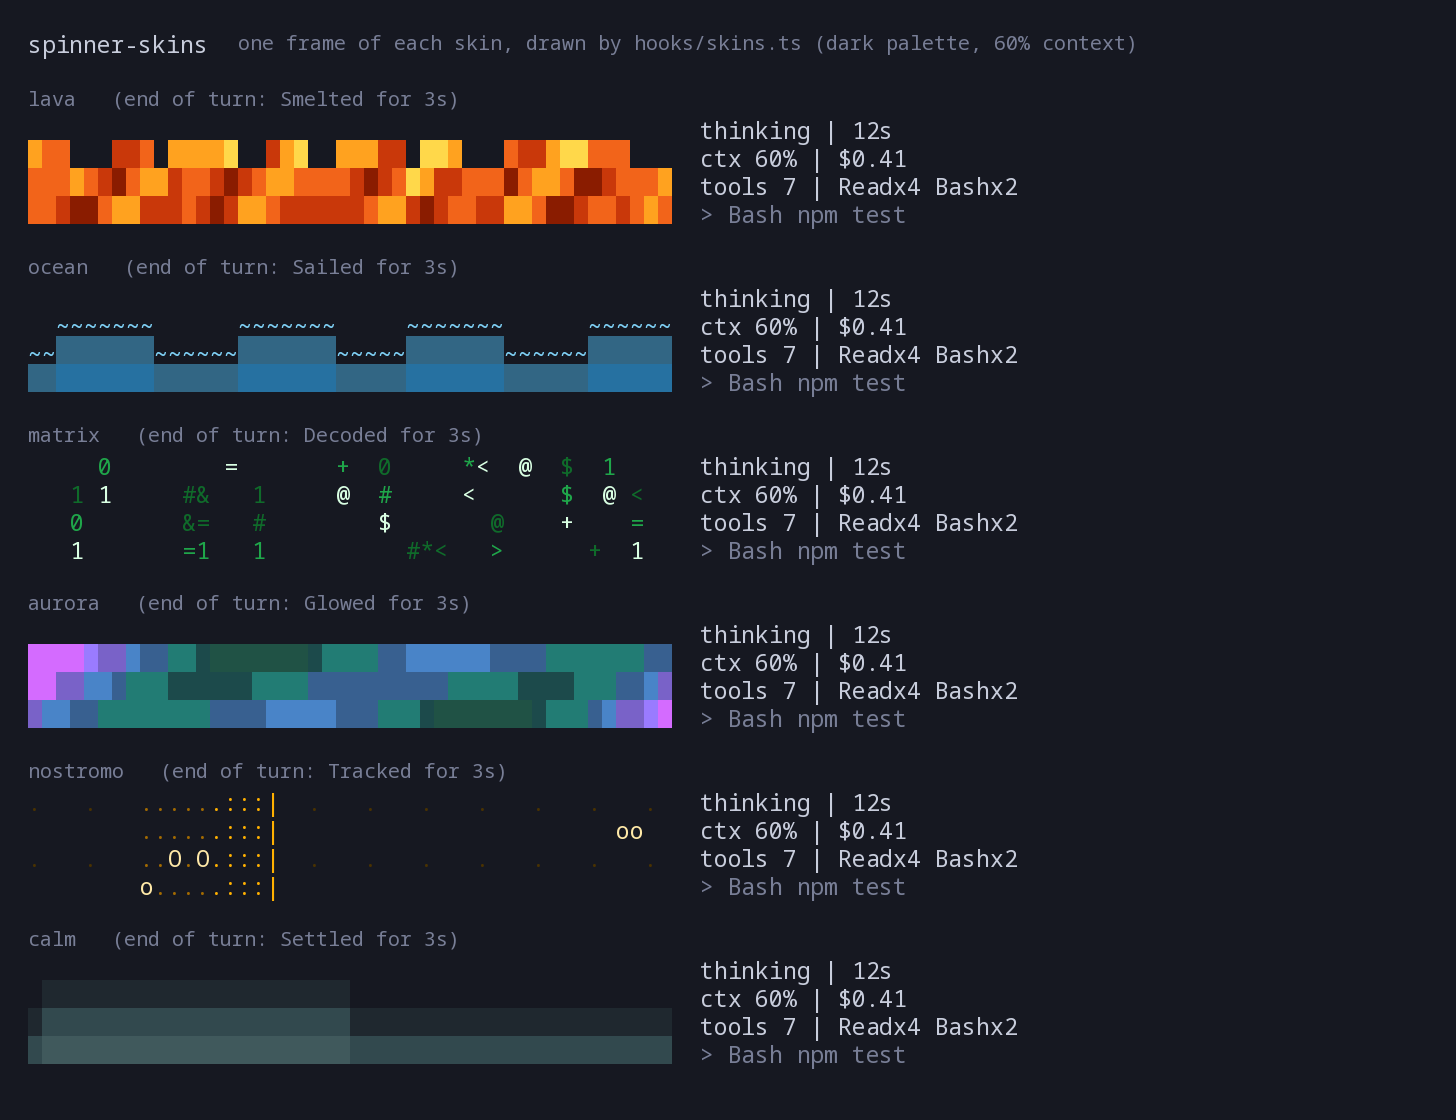
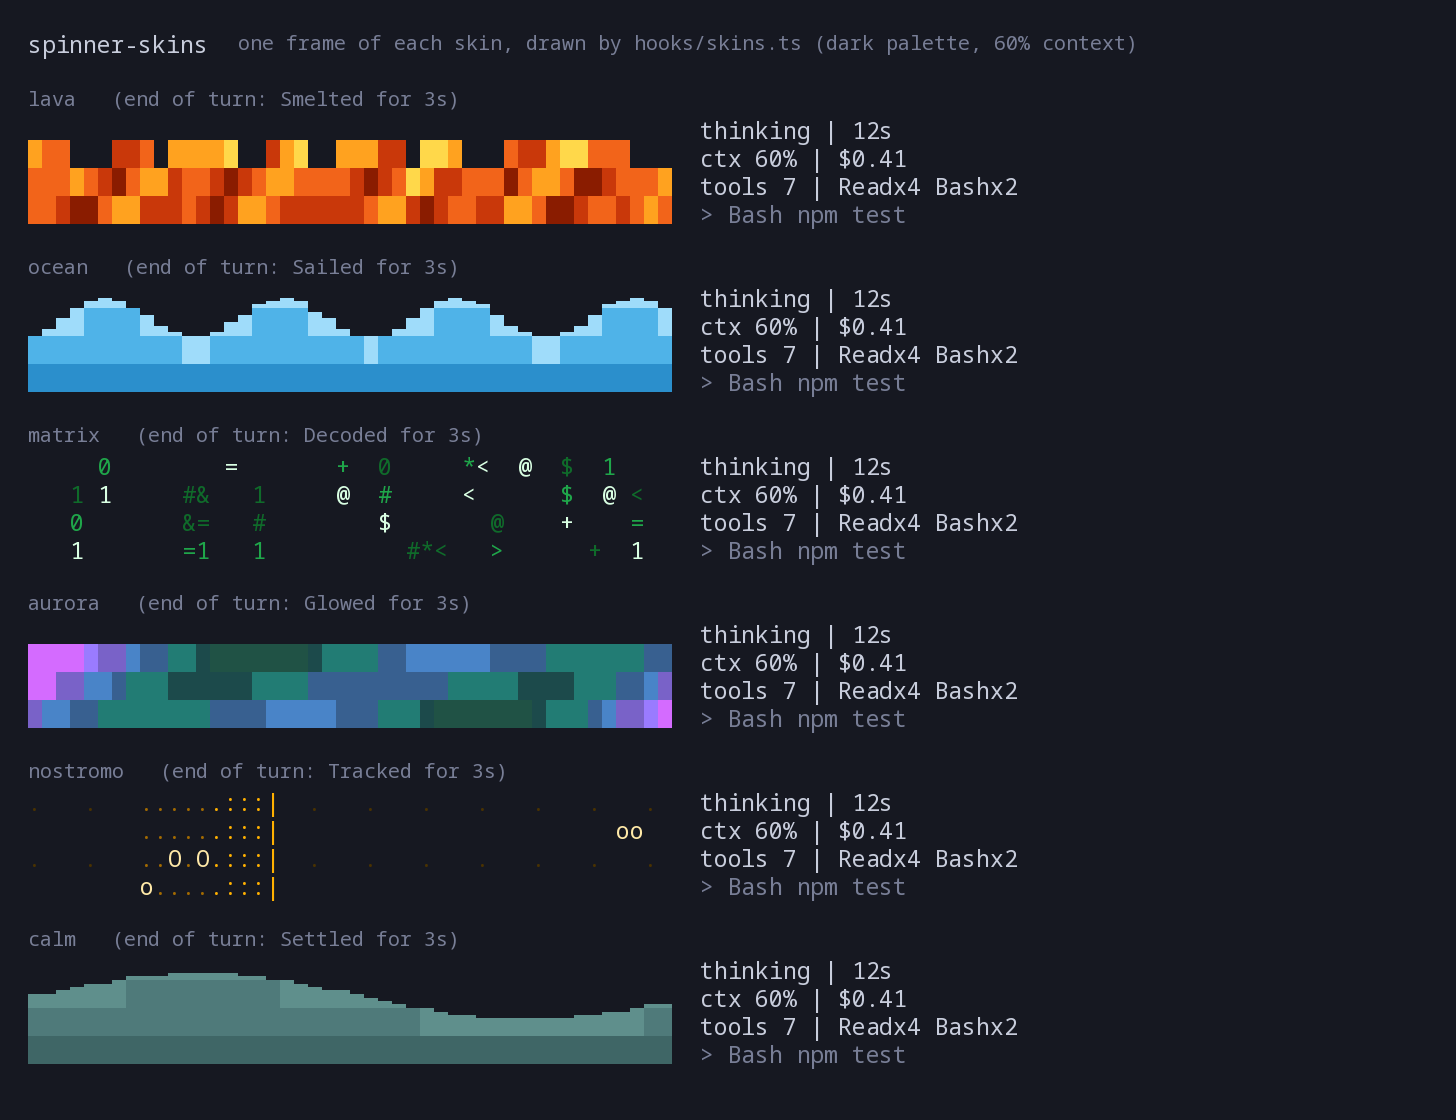
feat: ✨ draw calm and ocean surfaces with eighth blocks
The surface cell is filled to its exact height, so the swell slides
smoothly between rows instead of jumping a whole row. Depth shading is now
flat horizontal bands, so no colour seams follow the waves. The screenshot
is regenerated and the renderer draws eighth blocks.

Changed region(s): [[0.0, 0.25, 0.4636, 0.375], [0.0, 0.8438, 0.4636, 0.9688]]

diff --git a/hooks/skins.ts b/hooks/skins.ts
@@ -38,6 +38,23 @@ const hash = (a: number, b: number): number => {
 const depth = (level: number, rows: number): number =>
   0.6 + clamp(level, 0, 1) * (rows - 0.6)
 
+const EIGHTHS = ['\u2581', '\u2582', '\u2583', '\u2584', '\u2585', '\u2586', '\u2587', '\u2588']
+
+// One cell of a body of water whose surface sits `top` rows below the grid's
+// top edge. The surface cell is filled to its exact height with an eighth
+// block, so the surface slides smoothly between rows instead of jumping a
+// whole row at a time. Cells below it step darker in flat horizontal bands
+// (by depth below `base`, the surface at rest), so no seams follow the swell.
+const water = (top: number, base: number, y: number, palette: string[]): Cell | null => {
+  const covered = y + 1 - top
+  if (covered <= 0.06) return null
+  if (covered < 1) {
+    return { ch: EIGHTHS[clamp(Math.round(covered * 8), 1, 8) - 1], color: palette[0] }
+  }
+  const d = clamp(Math.floor(y - base) + 1, 1, palette.length - 1)
+  return { ch: '\u2588', color: palette[d] }
+}
+
 const lava: Skin = {
   verb: 'Smelted',
   palettes: {
@@ -60,17 +77,12 @@ const lava: Skin = {
 const ocean: Skin = {
   verb: 'Sailed',
   palettes: {
-    light: ['#0b6fa4', '#0a5a8a', '#084a73', '#06395a'],
-    dark: ['#7fd0f5', '#4fb3e8', '#2b8fcc', '#1b6ba3'],
+    light: ['#3d9ad1', '#0b6fa4', '#0a5a8a', '#084a73'],
+    dark: ['#9fdcfa', '#4fb3e8', '#2b8fcc', '#1b6ba3'],
   },
   cell: ({ x, y, t, rows, level, palette }) => {
-    const top = rows - depth(level, rows) + 0.7 * Math.sin(x * 0.5 + t * 0.15)
-    if (y + 0.5 < top) return null
-    const d = Math.floor(y + 0.5 - top)
-    return {
-      ch: d <= 0 ? '~' : d === 1 ? '▒' : d === 2 ? '▓' : '█',
-      color: palette[clamp(d, 0, palette.length - 1)],
-    }
+    const base = rows - depth(level, rows)
+    return water(base + 0.7 * Math.sin(x * 0.5 + t * 0.15), base, y, palette)
   },
 }
 
@@ -147,16 +159,14 @@ const nostromo: Skin = {
 const calm: Skin = {
   verb: 'Settled',
   palettes: {
-    light: ['#cfe3dc', '#a8cfc4', '#86b8b0', '#6aa0a3'],
-    dark: ['#3a5a5a', '#4f7a7a', '#6a9a98', '#8dbbb4'],
+    light: ['#b9d8cf', '#a8cfc4', '#86b8b0', '#6aa0a3'],
+    dark: ['#5f8f8c', '#4f7a7a', '#3f6666', '#335555'],
   },
   cell: ({ x, y, t, rows, level, palette }) => {
     const breath = 0.3 * Math.sin(t * 0.03)
     const swell = 0.6 * Math.sin(x * 0.15 + t * 0.02) + 0.3 * Math.sin(x * 0.07 - t * 0.013)
-    const top = rows - depth(level, rows) - breath + swell
-    if (y + 0.5 < top) return null
-    const d = clamp(Math.floor(y + 0.5 - top), 0, palette.length - 1)
-    return { ch: d === 0 ? '\u2591' : '\u2592', color: palette[d] }
+    const base = rows - depth(level, rows) - breath
+    return water(base + swell, base, y, palette)
   },
 }
 

diff --git a/scripts/render_assets.py b/scripts/render_assets.py
@@ -19,6 +19,7 @@ BG = (22, 24, 33)
 FG = (200, 205, 220)
 DIM = (120, 126, 150)
 CW, CH = 14, 28  # cell size in px
+EIGHTHS = {chr(0x2581 + i): (i + 1) / 8 for i in range(7)}
 BLOCKS = {"█": 1.0, "▓": 0.75, "▒": 0.5, "░": 0.25}
 
 
@@ -40,6 +41,9 @@ def draw_run_rows(d, font, rows, x0, y0):
                 px, py = x0 + x * CW, y0 + y * CH
                 if ch in BLOCKS:
                     d.rectangle([px, py, px + CW - 1, py + CH - 1], fill=mix(color, BG, BLOCKS[ch]))
+                elif ch in EIGHTHS:
+                    top = py + CH - round(CH * EIGHTHS[ch])
+                    d.rectangle([px, top, px + CW - 1, py + CH - 1], fill=color)
                 elif ch != " ":
                     d.text((px, py + 2), ch, font=font, fill=color)
                 x += 1
